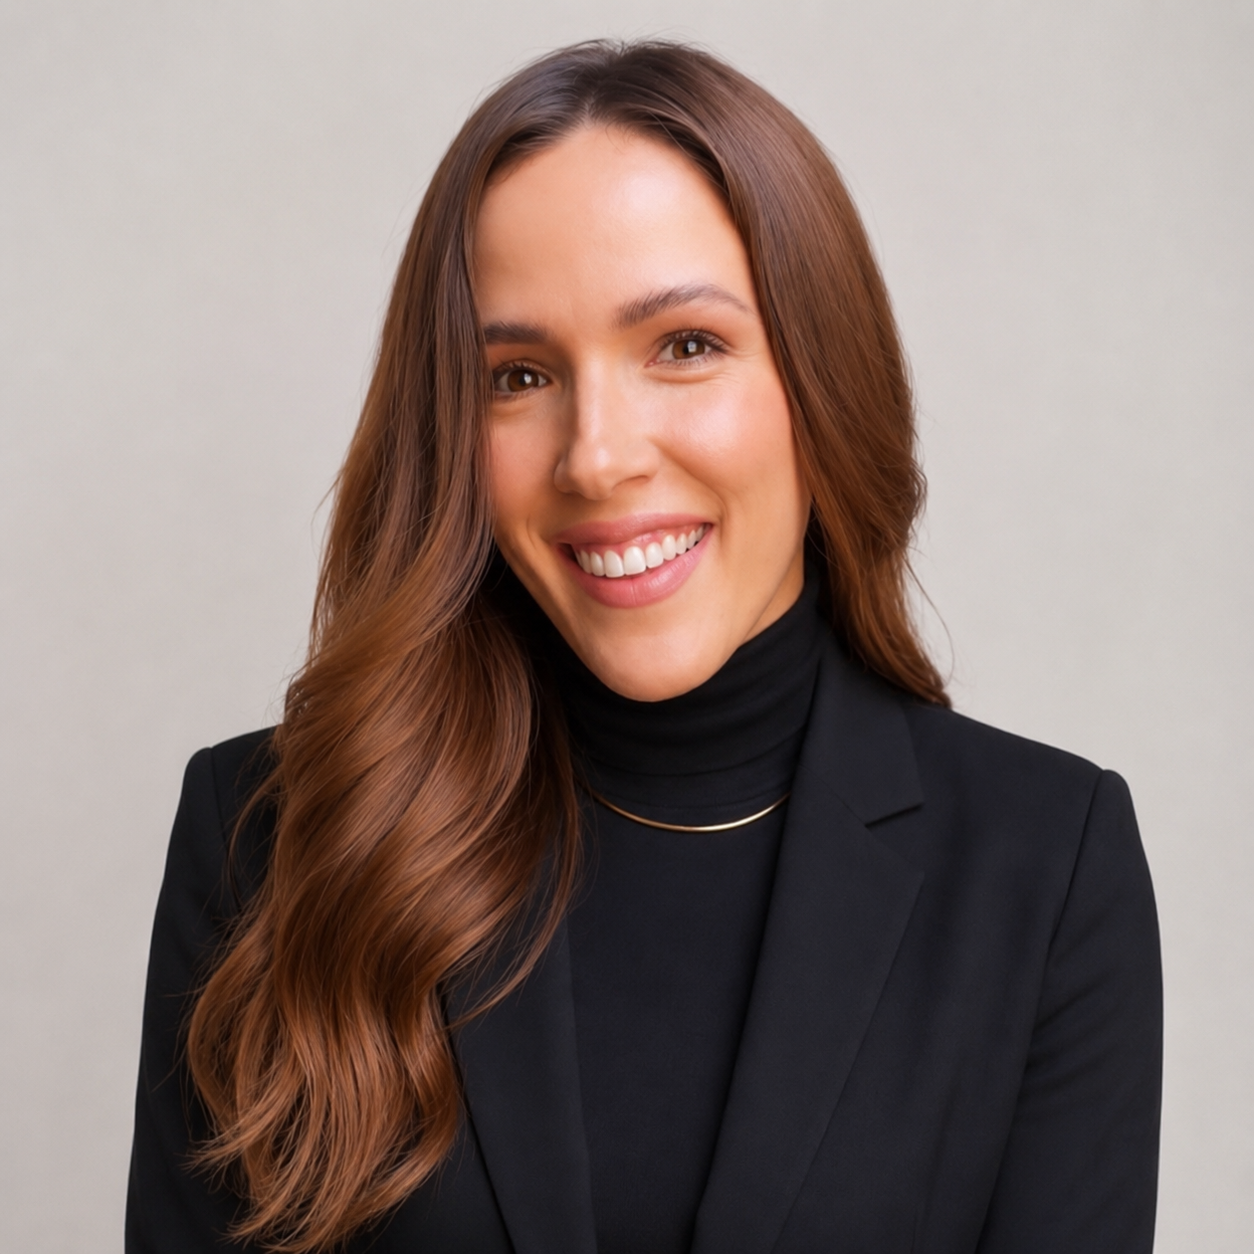
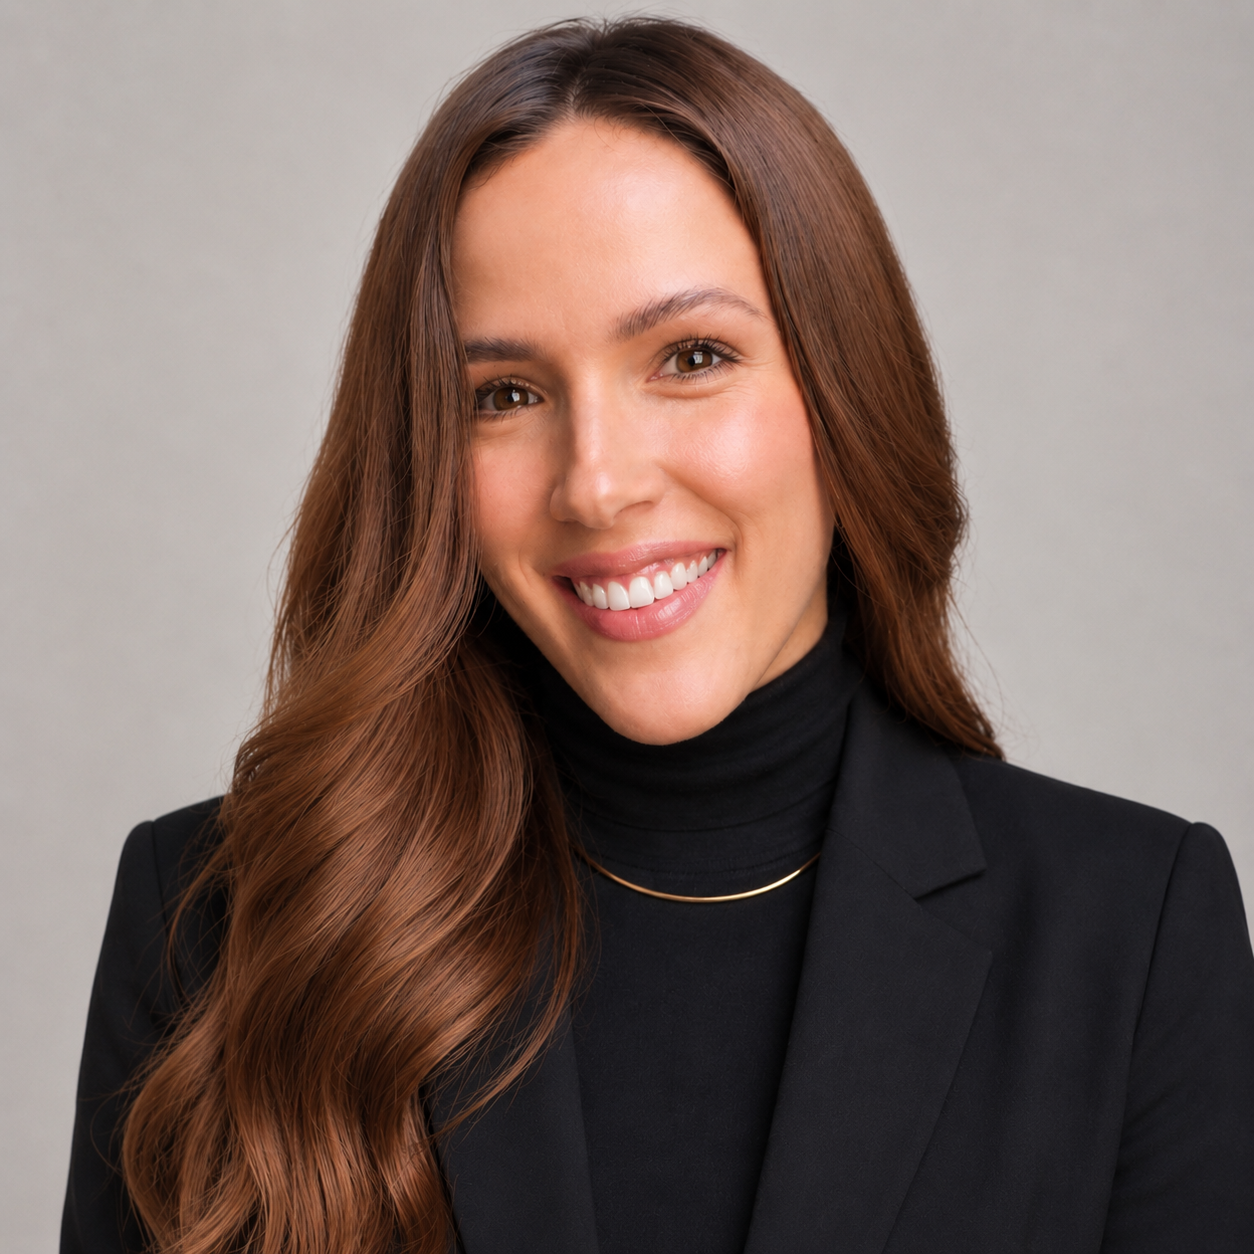
sort reps by votes

diff --git a/public/script.js b/public/script.js
@@ -561,7 +561,6 @@ const repCountryMap = {
   "Aaliyah Kathe": ["Norway","Sweden","Denmark","UAE","Qatar"],
   "Jyuon Yeon": ["Malaysia","South Korea","Japan","Thailand","Singapore"]
 };
-
 async function fetchAndUpdateCounters() {
   try {
     const res = await fetch("/counter-state");
@@ -587,12 +586,31 @@ async function fetchAndUpdateCounters() {
       if (totalEl) totalEl.innerText = total.toLocaleString();
     });
 
-    // Update rankings based on total votes
+    /* SORT AND REORDER CARDS BY VOTE TOTAL */
     const sorted = Object.entries(repTotals).sort((a, b) => b[1] - a[1]);
+
+    const container = document.querySelector(".representatives");
+    const title = container.querySelector(".section-title");
+
+    /* Update rank badges */
     sorted.forEach(([rep], index) => {
-      const rankEl = document.getElementById("rank-" + rep.replace(/\s+/g, "-"));
+      const repKey = rep.replace(/\s+/g, "-");
+      const rankEl = document.getElementById("rank-" + repKey);
       if (rankEl) rankEl.innerText = "#" + (index + 1);
     });
+
+    /* Reorder cards in the DOM */
+    sorted.forEach(([rep]) => {
+      const repKey = rep.replace(/\s+/g, "-");
+      const rankEl = document.getElementById("rank-" + repKey);
+      if (rankEl) {
+        const card = rankEl.closest(".rep-card");
+        if (card) container.appendChild(card);
+      }
+    });
+
+    /* Keep title at the top */
+    container.insertBefore(title, container.firstChild);
 
   } catch(e) {
     console.log("Counter fetch failed", e);
